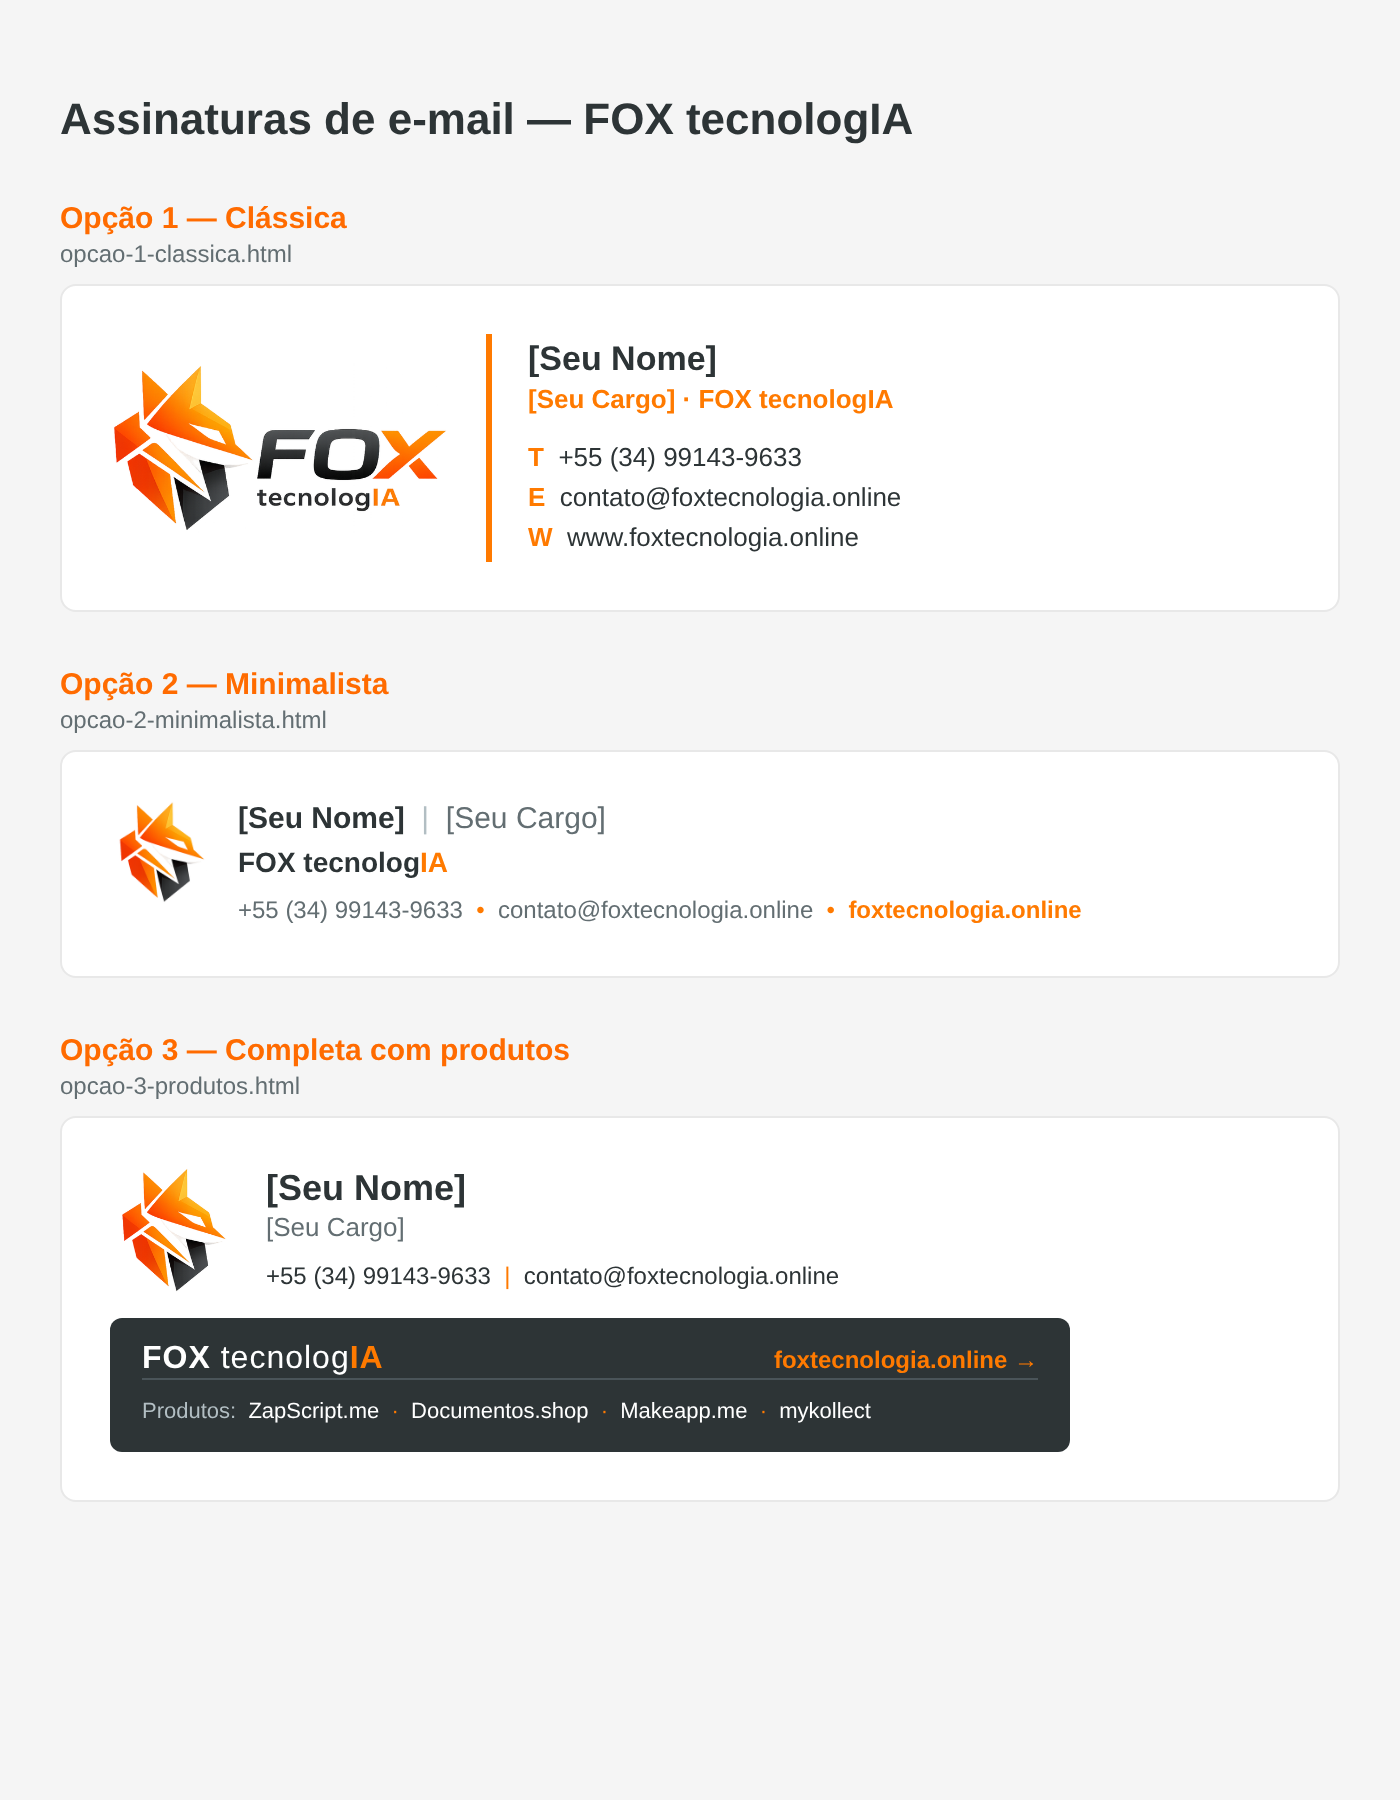
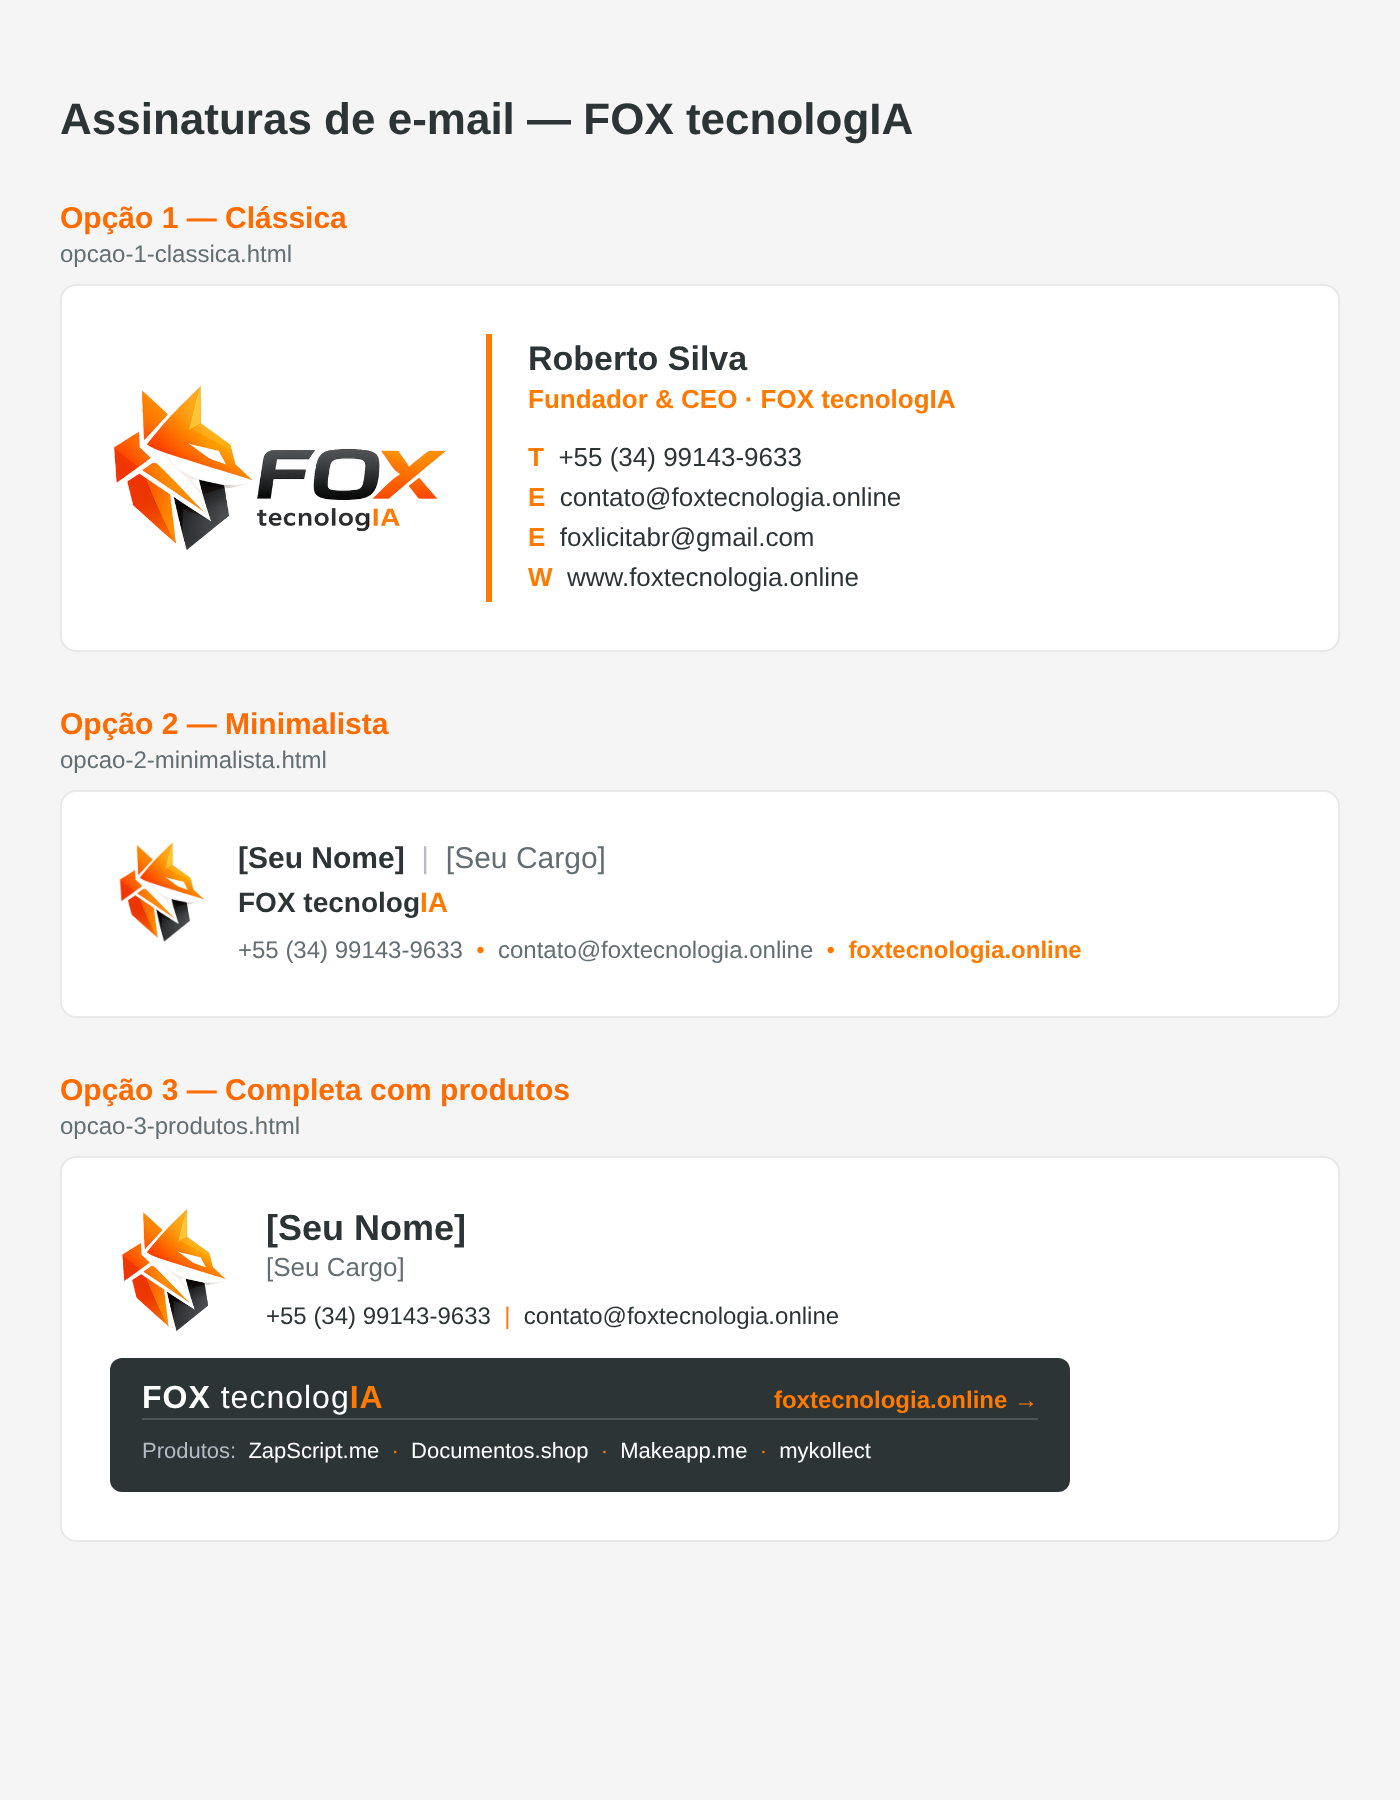
Personaliza assinatura opção 1 para Roberto Silva
Adiciona nome, cargo (Fundador & CEO) e o e-mail foxlicitabr@gmail.com.

Claude-Session: https://claude.ai/code/session_01CCpvzbVBdgyd465pTm6Wn7

diff --git a/email-signatures/opcao-1-classica.html b/email-signatures/opcao-1-classica.html
@@ -7,8 +7,8 @@
       </a>
     </td>
     <td style="border-left: 3px solid #FF7A00; padding: 2px 0 2px 18px; vertical-align: middle;">
-      <p style="margin: 0; font-size: 17px; font-weight: bold; color: #2D3436; line-height: 22px;">[Seu Nome]</p>
-      <p style="margin: 0 0 10px 0; font-size: 13px; color: #FF7A00; font-weight: bold; line-height: 18px;">[Seu Cargo] · FOX tecnologIA</p>
+      <p style="margin: 0; font-size: 17px; font-weight: bold; color: #2D3436; line-height: 22px;">Roberto Silva</p>
+      <p style="margin: 0 0 10px 0; font-size: 13px; color: #FF7A00; font-weight: bold; line-height: 18px;">Fundador &amp; CEO · FOX tecnologIA</p>
       <p style="margin: 0; font-size: 13px; line-height: 20px; color: #2D3436;">
         <span style="color: #FF7A00; font-weight: bold;">T</span>&nbsp;
         <a href="tel:+5534991439633" style="color: #2D3436; text-decoration: none;">+55 (34) 99143-9633</a>
@@ -16,6 +16,10 @@
       <p style="margin: 0; font-size: 13px; line-height: 20px; color: #2D3436;">
         <span style="color: #FF7A00; font-weight: bold;">E</span>&nbsp;
         <a href="mailto:contato@foxtecnologia.online" style="color: #2D3436; text-decoration: none;">contato@foxtecnologia.online</a>
+      </p>
+      <p style="margin: 0; font-size: 13px; line-height: 20px; color: #2D3436;">
+        <span style="color: #FF7A00; font-weight: bold;">E</span>&nbsp;
+        <a href="mailto:foxlicitabr@gmail.com" style="color: #2D3436; text-decoration: none;">foxlicitabr@gmail.com</a>
       </p>
       <p style="margin: 0; font-size: 13px; line-height: 20px; color: #2D3436;">
         <span style="color: #FF7A00; font-weight: bold;">W</span>&nbsp;

diff --git a/email-signatures/preview.html b/email-signatures/preview.html
@@ -9,8 +9,8 @@
       </a>
     </td>
     <td style="border-left: 3px solid #FF7A00; padding: 2px 0 2px 18px; vertical-align: middle;">
-      <p style="margin: 0; font-size: 17px; font-weight: bold; color: #2D3436; line-height: 22px;">[Seu Nome]</p>
-      <p style="margin: 0 0 10px 0; font-size: 13px; color: #FF7A00; font-weight: bold; line-height: 18px;">[Seu Cargo] · FOX tecnologIA</p>
+      <p style="margin: 0; font-size: 17px; font-weight: bold; color: #2D3436; line-height: 22px;">Roberto Silva</p>
+      <p style="margin: 0 0 10px 0; font-size: 13px; color: #FF7A00; font-weight: bold; line-height: 18px;">Fundador &amp; CEO · FOX tecnologIA</p>
       <p style="margin: 0; font-size: 13px; line-height: 20px; color: #2D3436;">
         <span style="color: #FF7A00; font-weight: bold;">T</span>&nbsp;
         <a href="tel:+5534991439633" style="color: #2D3436; text-decoration: none;">+55 (34) 99143-9633</a>
@@ -18,6 +18,10 @@
       <p style="margin: 0; font-size: 13px; line-height: 20px; color: #2D3436;">
         <span style="color: #FF7A00; font-weight: bold;">E</span>&nbsp;
         <a href="mailto:contato@foxtecnologia.online" style="color: #2D3436; text-decoration: none;">contato@foxtecnologia.online</a>
+      </p>
+      <p style="margin: 0; font-size: 13px; line-height: 20px; color: #2D3436;">
+        <span style="color: #FF7A00; font-weight: bold;">E</span>&nbsp;
+        <a href="mailto:foxlicitabr@gmail.com" style="color: #2D3436; text-decoration: none;">foxlicitabr@gmail.com</a>
       </p>
       <p style="margin: 0; font-size: 13px; line-height: 20px; color: #2D3436;">
         <span style="color: #FF7A00; font-weight: bold;">W</span>&nbsp;
